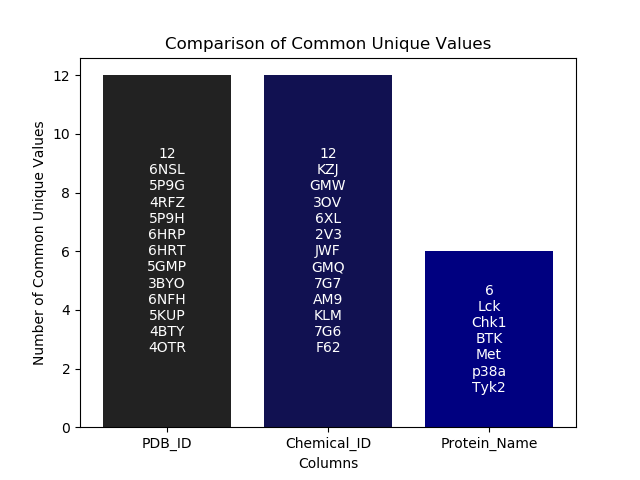
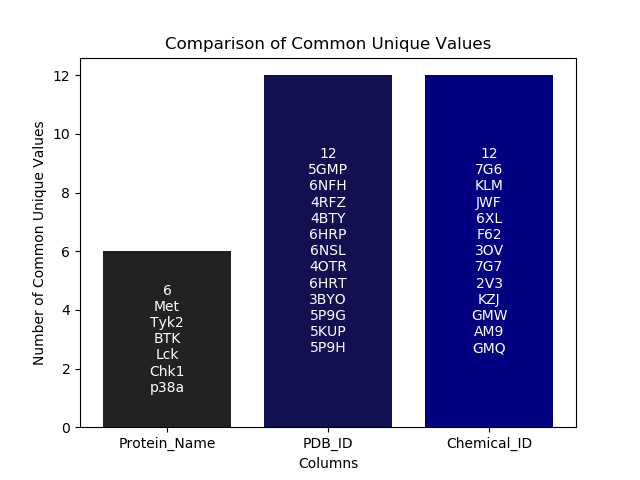
vz

diff --git a/code/data_load.py b/code/data_load.py
@@ -5,6 +5,8 @@ import matplotlib.pyplot as plt
 import seaborn as sns
 from tqdm import tqdm
 import glob
+import plotly.express as px
+import plotly
 
 
 
@@ -114,12 +116,15 @@ def plot_unique_vals(unique_values_dict, columns_list):
         ax.annotate(f'{int(p.get_height())}', (p.get_x() + p.get_width() / 2., p.get_height()),
                     ha='center', va='center', xytext=(0, 10), textcoords='offset points')
 
+    #fig = px.sunburst(unique_values_df, path=columns_list)
+
     plt.savefig('../results/step1_pdf_parsing/plots/unique_vals_with_comparison.png')
+    #fig.write_image('../results/step1_pdf_parsing/plots/tree_diagram.png')
 
 
 
 
-def visualize_comparison_of_csvs(csv_paths, columns_list):
+def vz_comparison_of_csvs(csv_paths, columns_list):
 
     df_list, unique_values_dict = csv_to_unique_vals_dict(csv_paths, columns_list)
     common_unique_values = csv_to_common_vals_dict(df_list, columns_list)
@@ -272,24 +277,36 @@ def parsing(parsing_flag, pdf_path):
         if named_df_list:
             for df in named_df_list:
                 if not save_dataframe_to_csv(df, str(df.name)):
-                    success_flag = False
+                    parsing_flag = False
                     print(f'Failed to save DataFrame {df.name}.')
                     break
         else:
             print('Error during reading the .pdf file occurred.')
     else:
-        print('Parsing was skipped of done previously')
+        print('Parsing was skipped or done previously')
+
+
+
+def vz_tree_diagram(csv_paths, columns_list):
+    for csv in csv_paths:
+        df = pd.read_csv(csv)
+        fig = px.sunburst(df, path=columns_list)
+        fig.show()
+        # df_name = f'{os.path.splitext(os.path.basename(csv))[0]}'
+        #output_path = '../results/step1_pdf_parsing/plots/output.png'
+        #plotly.io.write_image(fig, output_path, format='png')
 
 
 
 
-def visualization(success_flag, csv_directory):
-    if success_flag:
+def visualization(vz_flag, csv_directory):
+    if vz_flag:
         csv_paths = glob.glob(os.path.join(csv_directory, '*.csv'))
 
         # Plotting reports and writing DataFrames to CSV
-        columns_list = ['PDB_ID', 'Chemical_ID', 'Protein_Name']
-        visualize_comparison_of_csvs(csv_paths, columns_list)
+        columns_list = ['Protein_Name', 'PDB_ID', 'Chemical_ID']
+        vz_comparison_of_csvs(csv_paths, columns_list)
+        vz_tree_diagram(csv_paths, columns_list)
     else:
         print('Visualization was skipped of done previously.')
 
@@ -304,7 +321,7 @@ def main():
     csv_directory = os.path.join(current_dir, '../results/step1_pdf_parsing/no_mapping_csvs')
 
     # Flags for controlling
-    success_flag = True
+    vz_flag = True
     parsing_flag = False
     mapping_flag = False
 
@@ -312,13 +329,16 @@ def main():
     parsing(parsing_flag, pdf_path)
 
     # Step 2. Visualisation of csv: unique and common vals for a list of columns
-    visualization(success_flag, csv_directory)
+    visualization(vz_flag, csv_directory)
 
     # Step 3. Mapping: PDB ID -> UniProt ID
-    csv_path = glob.glob(os.path.join(csv_directory, '*.csv'))
-    for csv in csv_path:
-        df_name = f'{os.path.splitext(os.path.basename(csv_path))[0]}'
-        df = pd.read_csv(csv_path)
+    if mapping_flag:
+        csv_path = glob.glob(os.path.join(csv_directory, '*.csv'))
+        for csv in csv_path:
+            df_name = f'{os.path.splitext(os.path.basename(csv_path))[0]}'
+            df = pd.read_csv(csv_path)
+
+
 
 
 
